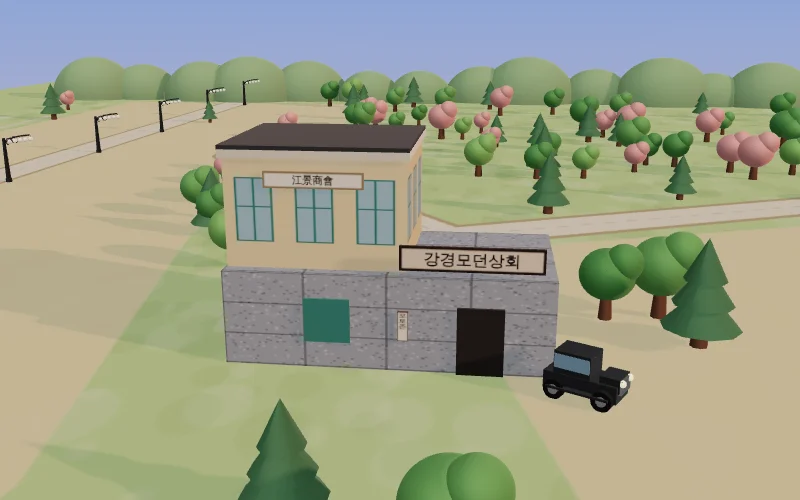
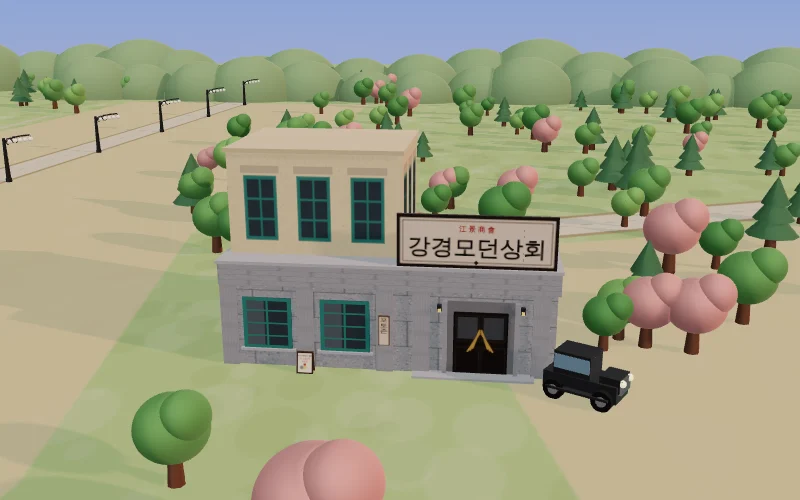
강경모던상회·강경역사관 주변 현장 사진대로 다시 만들기
- 강경모던상회: 1층 화강석 판석·두 겹 돌림띠, 청록 격자 창, 세로 포토존 간판, 금색 손잡이 검은 쌍여닫이문과 벽등, 2층 왼쪽 크림 미장과 청록 창 셋, 돌림띠 위 큰 '江景商會 강경모던상회' 간판, 입간판
- 강경구락부 아치 정문을 강경역사관 왼쪽 옆(정면과 나란히)으로 옮기고 낮은 벽돌 담, 앞 화단 울타리와 관목 추가
- 지도·장소 그림 다시 굽기, 장소 시트에 현장 사진(실제 모습) 표시

Claude-Session: https://claude.ai/code/session_01KQ2BkdNXvj6GkjXT8LUAK6

diff --git a/scripts/characters3d/buildings.js b/scripts/characters3d/buildings.js
@@ -242,19 +242,68 @@ export function building(a, rand, { night = false } = {}) {
       const s2 = plate("園道食", Wt * 0.3, 5, { bg: "#F4F1EA", fg: "#1E1E20", border: "#5A3A26", font: "'Song Myung', serif" }); s2.position.set(Wt * 0.25, H * 0.54, D / 2 + 1); g.add(s2);
       break;
     }
-    case "modernstore": { // 강경모던상회(江景商會): 위층 크림 미장 + 江景商會 현판·청록 창, 아래층 회색 화강석, 큰 '강경모던상회' 간판, 세로 '포토존' 간판
-      const granite = canvasTex("granite", 256, 128, (c, w, h) => { c.fillStyle = "#A9ABAD"; c.fillRect(0, 0, w, h); for (let i = 0; i < 900; i++) { c.fillStyle = Math.random() < 0.5 ? "rgba(255,255,255,.25)" : "rgba(0,0,0,.18)"; c.fillRect(Math.random() * w, Math.random() * h, 2, 2); } c.strokeStyle = "rgba(60,60,60,.35)"; c.lineWidth = 2; for (let y = 0; y < h; y += 42) { c.beginPath(); c.moveTo(0, y); c.lineTo(w, y); c.stroke(); } for (let x = 0; x < w; x += 64) { c.beginPath(); c.moveTo(x, 0); c.lineTo(x, h); c.stroke(); } });
-      const Wm = W * 1.3;
-      box(g, new THREE.MeshStandardMaterial({ map: granite, roughness: 0.8 }), [Wm, H * 0.48, D], [0, H * 0.24, 0]);
-      const up = facade(`ms-${a.id}`, { wall: "#EAD3A6", cols: 3, rows: 1, kind: "plain", frame: "#3F8A7A" });
-      box(g, wallMat(up, night), [Wm * 0.55, H * 0.55, D * 0.9], [-Wm * 0.22, H * 0.48 + H * 0.275, -D * 0.04]);
-      box(g, flock("#E3D9C4"), [Wm * 0.57, 3, D * 0.95], [-Wm * 0.22, H * 1.04, -D * 0.04]);
-      box(g, flock("#3A3A3C"), [Wm * 0.57, 1.5, D * 0.95], [-Wm * 0.22, H * 1.07, -D * 0.04]);
-      const pl = plate("江景商會", Wm * 0.3, 6, { bg: "#EFE6D2", fg: "#2B2220", border: "#A08C6A", font: "'Song Myung', serif" }); pl.position.set(-Wm * 0.22, H * 0.92, D * 0.42); g.add(pl);
-      const big = plate("강경모던상회", Wm * 0.42, 9, { bg: "#E6D2B8", fg: "#1E1E20", border: "#3A2A20", sub: "", font: "'Song Myung', serif" }); big.position.set(Wm * 0.25, H * 0.58, D / 2 + 1); g.add(big);
-      const ph = plate("포토존", 4, 11, { vertical: true, bg: "#EFE6D2", fg: "#2B2220", border: "#6B4530", font: "'Song Myung', serif" }); ph.position.set(Wm * 0.05, H * 0.24, D / 2 + 1); g.add(ph);
-      box(g, flock("#3F8A7A"), [Wm * 0.14, H * 0.22, 1], [-Wm * 0.18, H * 0.25, D / 2 + 0.6]);
-      box(g, flock("#2B2220"), [Wm * 0.14, H * 0.34, 1.2], [Wm * 0.28, H * 0.17, D / 2 + 0.7]);
+    case "modernstore": { // 강경모던상회(江景商會) — 현장 사진 기준
+      // 1층: 회색 화강석 큰 판석 + 두 겹 돌림띠, 청록 격자 창 둘, 세로 '포토존' 간판, 들어간 검은 쌍여닫이문(금색 ^ 손잡이)과 벽등 둘, 화강석 디딤판
+      // 2층: 왼쪽 절반만 크림 미장 + 청록 창 셋(돌 상인방). 오른쪽은 1층 돌림띠 위에 큰 '江景商會 강경모던상회' 간판이 섬
+      const Wm = W * 1.3, Hg = H * 0.52, Hu = H * 0.5, F = D / 2;
+      const granite = canvasTex("granite2", 512, 256, (c, w, h) => { c.fillStyle = "#A7A9AB"; c.fillRect(0, 0, w, h); for (let i = 0; i < 4000; i++) { c.fillStyle = Math.random() < 0.5 ? "rgba(255,255,255,.22)" : "rgba(0,0,0,.16)"; c.fillRect(Math.random() * w, Math.random() * h, 2, 2); } c.strokeStyle = "rgba(70,70,72,.45)"; c.lineWidth = 2; for (let y = 0; y <= h; y += 64) { c.beginPath(); c.moveTo(0, y); c.lineTo(w, y); c.stroke(); } for (let r = 0; r < 4; r++) for (let x = (r % 2) * 48; x < w; x += 96) { c.beginPath(); c.moveTo(x, r * 64); c.lineTo(x, r * 64 + 64); c.stroke(); } });
+      const gm = new THREE.MeshStandardMaterial({ map: granite, roughness: 0.75 });
+      const gLight = flock("#B9BBBD");
+      box(g, gm, [Wm, Hg, D], [0, Hg / 2, 0]);
+      // 돌림띠 (판석 띠 + 얇은 처마돌)
+      box(g, gm, [Wm + 2, Hg * 0.2, D + 2], [0, Hg * 0.9, 0]);
+      box(g, gLight, [Wm + 3, 1.2, D + 3], [0, Hg + 0.6, 0]);
+      // 벽기둥 (살짝 튀어나옴)
+      for (const x of [-0.48, -0.245, -0.005, 0.105, 0.455]) box(g, gm, [Wm * 0.05, Hg * 0.8, 1.2], [x * Wm, Hg * 0.4, F + 0.6]);
+      // 청록 격자 창 둘
+      const win = canvasTex(`mswin-${night ? "n" : "d"}`, 96, 128, (c, w, h) => { c.fillStyle = night ? "#F2C77B" : "#38474D"; c.fillRect(0, 0, w, h); c.fillStyle = "rgba(255,255,255,.18)"; c.fillRect(4, 4, w * 0.4, h - 8); c.strokeStyle = "#3F8C80"; c.lineWidth = 8; c.strokeRect(4, 4, w - 8, h - 8); c.lineWidth = 4; c.beginPath(); c.moveTo(w / 2, 0); c.lineTo(w / 2, h); for (const y of [h * 0.25, h * 0.5, h * 0.75]) { c.moveTo(0, y); c.lineTo(w, y); } c.stroke(); });
+      for (const x of [-0.3625, -0.125]) {
+        box(g, new THREE.MeshStandardMaterial({ map: win, emissive: night ? "#FFB55A" : "#000", emissiveIntensity: night ? 0.5 : 0 }), [Wm * 0.15, Hg * 0.5, 0.6], [x * Wm, Hg * 0.43, F + 0.35]);
+        box(g, gLight, [Wm * 0.17, 0.9, 1.6], [x * Wm, Hg * 0.17, F + 0.8]);
+      }
+      // 세로 '포토존' 간판
+      const ph = plate("포토존", 4, 11, { vertical: true, bg: "#EAD9BE", fg: "#3A2418", border: "#5A3A26", font: "'Song Myung', serif" }); ph.position.set(-0.005 * Wm, Hg * 0.42, F + 1.9); g.add(ph);
+      // 들어간 문간: 어두운 안쪽 + 검은 쌍여닫이문(금색 ^ 손잡이)
+      const dx = 0.28 * Wm, dw = Wm * 0.2;
+      box(g, flock("#7E8082"), [dw + 2, Hg * 0.72, 0.4], [dx, Hg * 0.36, F + 0.2]);
+      const door = canvasTex("msdoor", 128, 160, (c, w, h) => { c.fillStyle = "#231A17"; c.fillRect(0, 0, w, h); c.strokeStyle = "#3A2C26"; c.lineWidth = 3; for (const x of [6, w / 2 + 3]) { c.strokeRect(x, 8, w / 2 - 9, h * 0.4); c.strokeRect(x, h * 0.55, w / 2 - 9, h * 0.4); } c.fillStyle = "rgba(160,190,200,.35)"; c.fillRect(10, 12, w / 2 - 17, h * 0.34); c.fillRect(w / 2 + 7, 12, w / 2 - 17, h * 0.34); c.strokeStyle = "#C9A24A"; c.lineWidth = 4; for (let i = 0; i < 3; i++) { c.beginPath(); c.moveTo(w / 2 - 30 + i * 6, h * 0.62 - i * 4); c.lineTo(w / 2 - 2, h * 0.32 - i * 4); c.moveTo(w / 2 + 30 - i * 6, h * 0.62 - i * 4); c.lineTo(w / 2 + 2, h * 0.32 - i * 4); c.stroke(); } });
+      box(g, new THREE.MeshStandardMaterial({ map: door, roughness: 0.5 }), [dw * 0.8, Hg * 0.62, 0.5], [dx, Hg * 0.31, F + 0.5]);
+      for (const sx of [-1, 1]) box(g, gm, [1.6, Hg * 0.72, 2], [dx + sx * (dw / 2 + 0.6), Hg * 0.36, F + 1]);
+      for (const sx of [-1, 1]) { // 벽등
+        box(g, flock("#1E1E20"), [1.6, 2.4, 1.6], [dx + sx * (dw / 2 + 2.6), Hg * 0.66, F + 1.6]);
+        box(g, new THREE.MeshStandardMaterial({ color: "#F6D58A", emissive: "#FFB648", emissiveIntensity: night ? 1.4 : 0.25 }), [1.1, 1.4, 1.7], [dx + sx * (dw / 2 + 2.6), Hg * 0.64, F + 1.6]);
+      }
+      box(g, gLight, [Wm * 0.36, 1, 6], [dx - Wm * 0.02, 0.5, F + 3]); // 디딤판
+      // 2층: 왼쪽 크림 미장 + 청록 창 셋 (돌 상인방)
+      const up = canvasTex(`msup-${night ? "n" : "d"}`, 384, 192, (c, w, h) => {
+        c.fillStyle = "#E9D6AE"; c.fillRect(0, 0, w, h);
+        for (let i = 0; i < 900; i++) { c.fillStyle = "rgba(150,110,60,.08)"; c.fillRect(Math.random() * w, Math.random() * h, 3, 3); }
+        for (let i = 0; i < 3; i++) { const x = 40 + i * 118, y = 46, ww = 66, hh = 116;
+          c.fillStyle = "#C9BBA0"; c.fillRect(x - 10, y - 22, ww + 20, 14);
+          c.fillStyle = night ? "#F2C77B" : "#3A4950"; c.fillRect(x, y, ww, hh);
+          c.strokeStyle = "#3F8C80"; c.lineWidth = 7; c.strokeRect(x, y, ww, hh); c.lineWidth = 4; c.beginPath(); c.moveTo(x + ww / 2, y); c.lineTo(x + ww / 2, y + hh); c.moveTo(x, y + hh * 0.35); c.lineTo(x + ww, y + hh * 0.35); c.moveTo(x, y + hh * 0.68); c.lineTo(x + ww, y + hh * 0.68); c.stroke(); }
+      });
+      const uw = Wm * 0.53;
+      box(g, new THREE.MeshStandardMaterial({ map: up, roughness: 0.9, emissive: night ? "#FFB55A" : "#000", emissiveIntensity: night ? 0.15 : 0 }), [uw, Hu, D * 0.82], [-Wm / 2 + uw / 2 + 1, Hg + 1.2 + Hu / 2, -D * 0.06]);
+      box(g, flock("#D8C7A2"), [uw + 1.6, 1.6, D * 0.86], [-Wm / 2 + uw / 2 + 1, Hg + 1.2 + Hu + 0.8, -D * 0.06]);
+      // 큰 간판: 江景商會(빨강 작은 글씨) + 강경모던상회 — 돌림띠 위에 섬
+      const sign = canvasTex("mssign", 640, 220, (c, w, h) => {
+        c.fillStyle = "#E3D3BE"; c.fillRect(0, 0, w, h); c.strokeStyle = "#2E2420"; c.lineWidth = 14; c.strokeRect(7, 7, w - 14, h - 14);
+        c.lineWidth = 3; c.strokeRect(24, 24, w - 48, h - 48);
+        c.textAlign = "center"; c.textBaseline = "middle";
+        c.fillStyle = "#B0302A"; c.font = "700 30px 'Song Myung', serif"; c.fillText("江 景 商 會", w / 2, 58);
+        c.fillStyle = "#1C1C1E"; c.font = "800 92px 'Gowun Dodum', sans-serif"; c.fillText("강경모던상회", w / 2, 138);
+        c.fillStyle = "#2E2420"; c.beginPath(); c.moveTo(w / 2, 186); c.lineTo(w / 2 + 10, 196); c.lineTo(w / 2, 206); c.lineTo(w / 2 - 10, 196); c.fill();
+      });
+      const sw = Wm * 0.46, sh = sw * 0.34;
+      box(g, [flock("#2E2420"), flock("#2E2420"), flock("#2E2420"), flock("#2E2420"), new THREE.MeshStandardMaterial({ map: sign, roughness: 0.6 }), flock("#2E2420")], [sw, sh, 1.4], [Wm / 2 - sw / 2 - 1, Hg + 1.2 + sh / 2, F - 0.5]);
+      for (const sx of [-0.3, 0.3]) box(g, flock("#3A3A3C"), [1, sh * 0.8, 1], [Wm / 2 - sw / 2 - 1 + sx * sw, Hg + 1.2 + sh * 0.4, F - 2]);
+      // 입간판 (A자)
+      const ab = canvasTex("msaboard", 96, 128, (c, w, h) => { c.fillStyle = "#4A3022"; c.fillRect(0, 0, w, h); c.fillStyle = "#F1E6CF"; c.fillRect(8, 8, w - 16, h - 16); c.fillStyle = "#3A2418"; c.font = "bold 11px sans-serif"; c.textAlign = "center"; c.fillText("논산여행단과 함께", w / 2, 26); c.fillStyle = "#C0392B"; c.fillText("AR 인생네컷", w / 2, 44); c.fillText("포토존", w / 2, 60); for (const [x, col] of [[30, "#8C8F96"], [50, "#F2C97A"], [70, "#E8E2D6"]]) { c.fillStyle = col; c.beginPath(); c.arc(x, 92, 11, 0, 7); c.fill(); } c.fillStyle = "#C0392B"; c.beginPath(); c.arc(48, 74, 8, 0, 7); c.fill(); });
+      const ag = new THREE.Group(); ag.position.set(-0.24 * Wm, 0, F + 5); g.add(ag);
+      box(ag, [flock("#4A3022"), flock("#4A3022"), flock("#4A3022"), flock("#4A3022"), new THREE.MeshStandardMaterial({ map: ab }), flock("#4A3022")], [6, 8, 0.5], [0, 4.2, 0.9]);
+      ag.children[ag.children.length - 1].rotation.x = -0.18;
+      box(ag, flock("#4A3022"), [6, 8, 0.5], [0, 4.2, -0.9]); ag.children[ag.children.length - 1].rotation.x = 0.18;
       break;
     }
     case "hongin": { // 홍인책방: 황토빛 미장 2층, 돋을 글씨 '홍인책방', 흰 창 여섯, 금빛 '三樣堂製菓店', 1층 큰 유리창 카페

diff --git a/scripts/characters3d/diorama.js b/scripts/characters3d/diorama.js
@@ -223,12 +223,7 @@ function clubSquare(scene, night) {
     mesh(new THREE.CylinderGeometry(4, 4, 0.8, 16), flock("#4A4F52"), [0, 6, 0], [0, 0, 0], u);
     for (let k = 0; k < 3; k++) { const a0 = (k / 3) * Math.PI * 2; mesh(new THREE.BoxGeometry(3.4, 6, 3.4), flock("#8FA8A0"), [Math.cos(a0) * 6.5, 3, Math.sin(a0) * 6.5], [0, -a0, 0], u); }
   }
-  // 아치 정문 '강경구락부': 붉은 벽돌 기둥 + 철제 아치 + 마름모 글자판
-  const gt = new THREE.Group(); gt.position.copy(P(965, 905)); gt.rotation.y = 0.5; scene.add(gt);
-  for (const sx of [-1, 1]) { mesh(new THREE.BoxGeometry(6, 26, 6), flock("#8E4A3A"), [sx * 22, 13, 0], [0, 0, 0], gt); mesh(new THREE.BoxGeometry(7.5, 2, 7.5), flock("#BFBAB0"), [sx * 22, 27, 0], [0, 0, 0], gt); }
-  mesh(new THREE.TorusGeometry(19, 0.8, 8, 32, Math.PI), flock("#3E4448"), [0, 26, 0], [0, 0, 0], gt);
-  mesh(new THREE.BoxGeometry(46, 0.8, 0.8), flock("#3E4448"), [0, 44, 0], [0, 0, 0], gt);
-  ["강", "경", "구", "락", "부"].forEach((ch, i) => { const t = canvasTex(`club-${ch}`, 64, 64, (cx, w, h) => { cx.fillStyle = "#4A5054"; cx.fillRect(0, 0, w, h); cx.fillStyle = "#F2F2F2"; cx.font = "bold 40px sans-serif"; cx.textAlign = "center"; cx.textBaseline = "middle"; cx.fillText(ch, w / 2, h / 2 + 2); }); const d = new THREE.Mesh(new THREE.PlaneGeometry(6, 6), new THREE.MeshStandardMaterial({ map: t, side: THREE.DoubleSide })); d.rotation.z = Math.PI / 4; d.position.set(-14 + i * 7, 37 + Math.sin((i / 4) * Math.PI) * 4, 0.6); gt.add(d); });
+
 }
 
 /** 옛 한일은행 강경지점(강경역사관, 국가등록문화유산) — 현장 사진 기준
@@ -299,6 +294,22 @@ function oldBank(scene, night) {
   mesh(new THREE.PlaneGeometry(7, 4.6), new THREE.MeshStandardMaterial({ map: flag, side: THREE.DoubleSide }), [-20.5, 30.5, F + 2.4], [0, 0.2, 0.05], g);
   // 옆면 창 (작게)
   for (const sx of [-1, 1]) for (const z of [-0.2, 0.2]) mesh(new THREE.BoxGeometry(0.6, 18, 8), new THREE.MeshStandardMaterial({ map: grille, emissive: night ? "#FFB55A" : "#000", emissiveIntensity: night ? 0.35 : 0 }), [sx * (W / 2 + 0.3), 18, z * D], [0, 0, 0], g);
+  // 아치 정문 '강경구락부': 은행 왼쪽(정면에서 볼 때), 정면과 나란히 — 안쪽이 강경구락부 광장
+  const gt = new THREE.Group(); gt.position.set(-W / 2 - 26, 0, F - 2); g.add(gt);
+  for (const sx of [-1, 1]) { mesh(new THREE.BoxGeometry(6, 26, 6), flock("#8E4A3A"), [sx * 22, 13, 0], [0, 0, 0], gt); mesh(new THREE.BoxGeometry(7.5, 2, 7.5), flock("#BFBAB0"), [sx * 22, 27, 0], [0, 0, 0], gt); }
+  mesh(new THREE.TorusGeometry(19, 0.8, 8, 32, Math.PI), flock("#3E4448"), [0, 26, 0], [0, 0, 0], gt);
+  mesh(new THREE.BoxGeometry(46, 0.8, 0.8), flock("#3E4448"), [0, 44, 0], [0, 0, 0], gt);
+  ["강", "경", "구", "락", "부"].forEach((ch, i) => { const t = canvasTex(`club-${ch}`, 64, 64, (cx, w, h) => { cx.fillStyle = "#4A5054"; cx.fillRect(0, 0, w, h); cx.fillStyle = "#F2F2F2"; cx.font = "bold 40px sans-serif"; cx.textAlign = "center"; cx.textBaseline = "middle"; cx.fillText(ch, w / 2, h / 2 + 2); }); const d = new THREE.Mesh(new THREE.PlaneGeometry(6, 6), new THREE.MeshStandardMaterial({ map: t, side: THREE.DoubleSide })); d.rotation.z = Math.PI / 4; d.position.set(-14 + i * 7, 37 + Math.sin((i / 4) * Math.PI) * 4, 0.6); gt.add(d); });
+
+  // 정문 오른쪽 기둥 ~ 은행 모서리를 잇는 낮은 벽돌 담
+  mesh(new THREE.BoxGeometry(5, 9, 3), brickMat(0.5, 1), [-W / 2 - 1.5, 4.5, F - 2], [0, 0, 0], g);
+  // 앞 화단 울타리: 돌기둥 + 쇠 난간 두 줄 (계단 앞은 비움) · 화단 관목
+  for (const side of [-1, 1]) {
+    const x0 = side * 9.5, x1 = side * (W / 2 + 1);
+    for (let k = 0; k <= 4; k++) { const x = x0 + ((x1 - x0) * k) / 4; mesh(new THREE.BoxGeometry(1.8, 4.5, 1.8), stone, [x, 2.25, F + 7], [0, 0, 0], g); }
+    for (const y of [2, 3.6]) mesh(new THREE.BoxGeometry(Math.abs(x1 - x0), 0.35, 0.35), flock("#C8C6C0"), [(x0 + x1) / 2, y, F + 7], [0, 0, 0], g);
+    for (let k = 0; k < 4; k++) mesh(new THREE.SphereGeometry(3.2, 10, 8), flock(k % 2 ? "#5E8A4A" : "#6E9A55"), [x0 + ((x1 - x0) * (k + 0.5)) / 4, 2.4, F + 3.6], [0, 0, 0], g);
+  }
   // 짙은 슬레이트 우진각 지붕 + 환기 지붕창 둘
   const roof = hipRoof(W + 1, D + 1, 20, "#4A4E55"); roof.position.y = H + 1.7; g.add(roof);
   for (const sx of [-1, 1]) {

diff --git a/lib/data/locations.ts b/lib/data/locations.ts
@@ -105,6 +105,12 @@ const FACTS: Record<string, string> = {
   "ganggyeong-gwan": "‘江景舘’ 글씨와 손그림 영화 간판, 청록 창틀이 눈에 띄는 근대풍 극장 건물이에요.",
 };
 for (const l of LOCATIONS) if (!l.description && FACTS[l.id]) l.description = FACTS[l.id];
+/** 현장 사진 (장소 시트에 '실제 모습'으로 표시) */
+const PHOTOS: Record<string, string> = {
+  "welcome-center": "/story/welcome-center.webp", gwangshin: "/story/gwangshin.webp", daecheong: "/story/daecheong.webp",
+  "memory-lighthouse": "/story/memory-lighthouse.webp", "old-bank": "/story/old-bank.webp", "modern-store": "/story/modern-store.webp",
+};
+for (const l of LOCATIONS) if (!l.photoUrl && PHOTOS[l.id]) l.photoUrl = PHOTOS[l.id];
 
 
 export const LOC = Object.fromEntries(LOCATIONS.map((l) => [l.id, l])) as Record<string, GameLocation>;

diff --git a/app/explore/page.tsx b/app/explore/page.tsx
@@ -469,7 +469,7 @@ export default function Explore() {
             </div>
             {sel.photoUrl && (
               // eslint-disable-next-line @next/next/no-img-element
-              <img src={sel.photoUrl} alt={`${sel.name} 사진`} className="mt-3 w-full rounded-xl border-2 border-wood object-cover max-h-56" />
+              <div className="relative mt-3"><img src={sel.photoUrl} alt={`${sel.name} 실제 모습`} className="w-full rounded-xl object-cover max-h-56" /><span className="absolute left-2 top-2 chip bg-white/95 text-sumi !text-[11px]">📷 실제 모습</span></div>
             )}
             {sel.description && <p className="mt-2 text-sm text-wood-dark">{sel.description}</p>}
             {sel.historyStatus === "approved" && sel.history && (
